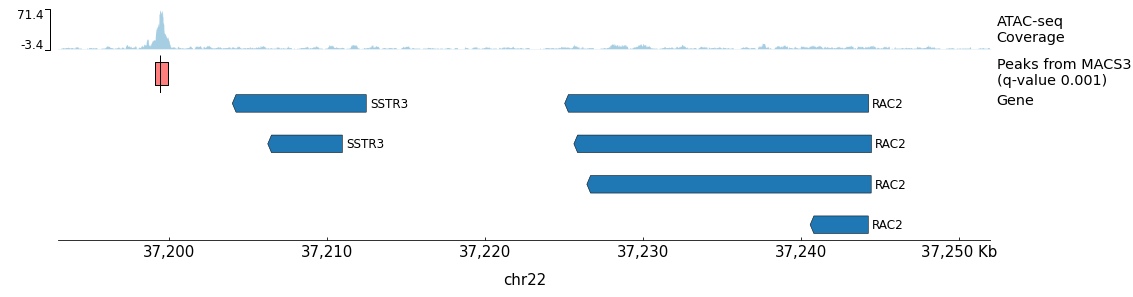
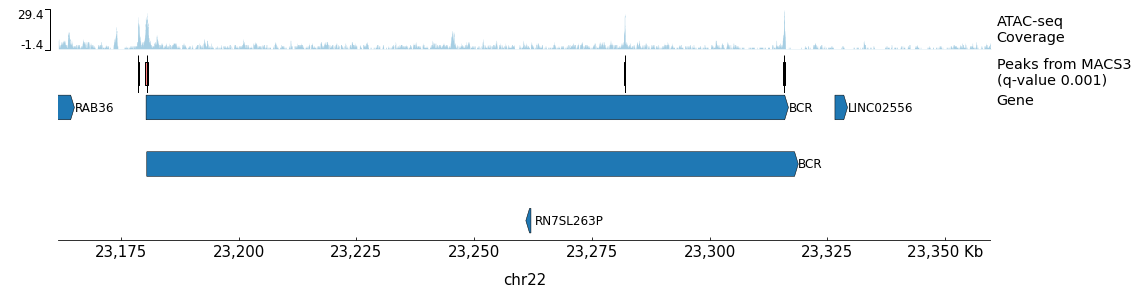
update atac-seq genome view location

diff --git a/use-cases/atacseq-analysis.md b/use-cases/atacseq-analysis.md
@@ -188,10 +188,10 @@ For demonstration purposes, we utilize human ATAC-Seq data from the BT-549 human
 ### Step 5: Visualize Peaks with pyGenomeTracks
 
 **User Query:**
-> Next, we want to visualize the peak in the chr22:37,193,000-37,252,000 region in a genome browser view. Use the chr22_gene.bed file as the gene annotation. Use the treatment bedGraph as the ATAC-seq coverage track. Use the peak.ini file as the configuration file.
+> Next, we want to visualize the peak in the chr22:23,161,760-23,359,701 region in a genome browser view. Use the chr22_gene.bed file as the gene annotation. Use the treatment bedGraph as the ATAC-seq coverage track. Use the peak.ini file as the configuration file.
 
 **Chat Response:**
-> Updated `peak.ini` to point at the BT549 bedgraph and q=0.001 peaks (absolute paths), then generated the genome browser view for chr22 (lines 37193000-37252000) using the local `pyGenomeTracks` CLI since the tool wrapper failed.
+> Updated `peak.ini` to point at the BT549 bedgraph and q=0.001 peaks (absolute paths), then generated the genome browser view for chr22 (lines 23161760-23359701) using the local `pyGenomeTracks` CLI since the tool wrapper failed.
 > 
 > Output:
 > 
